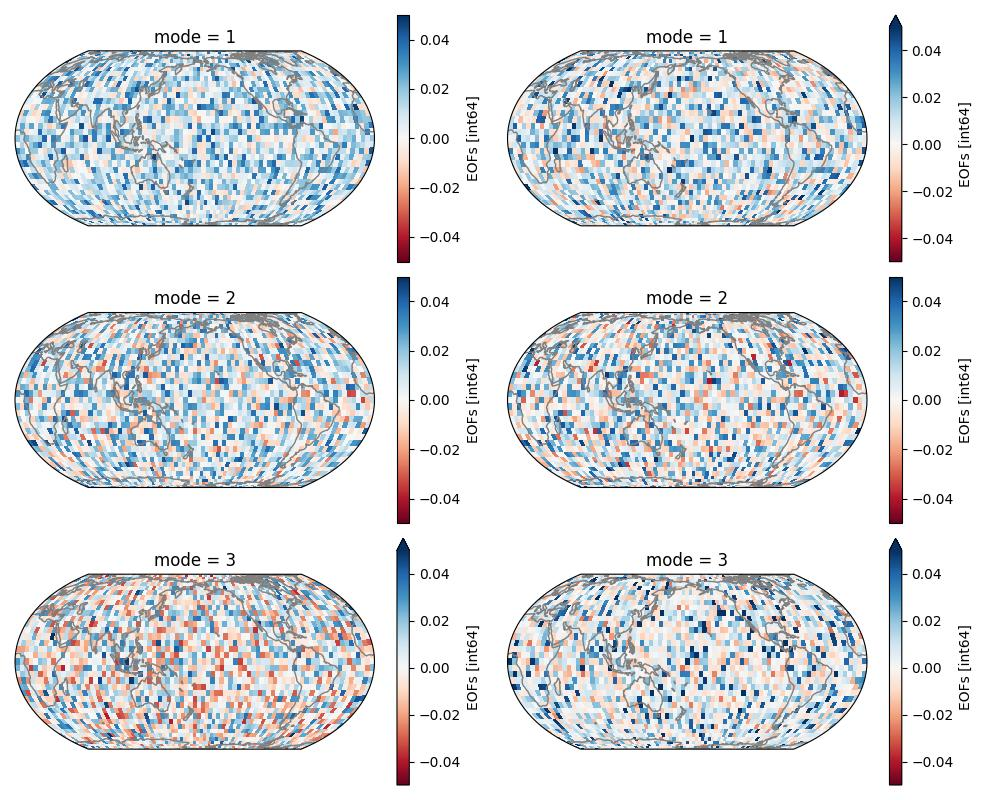
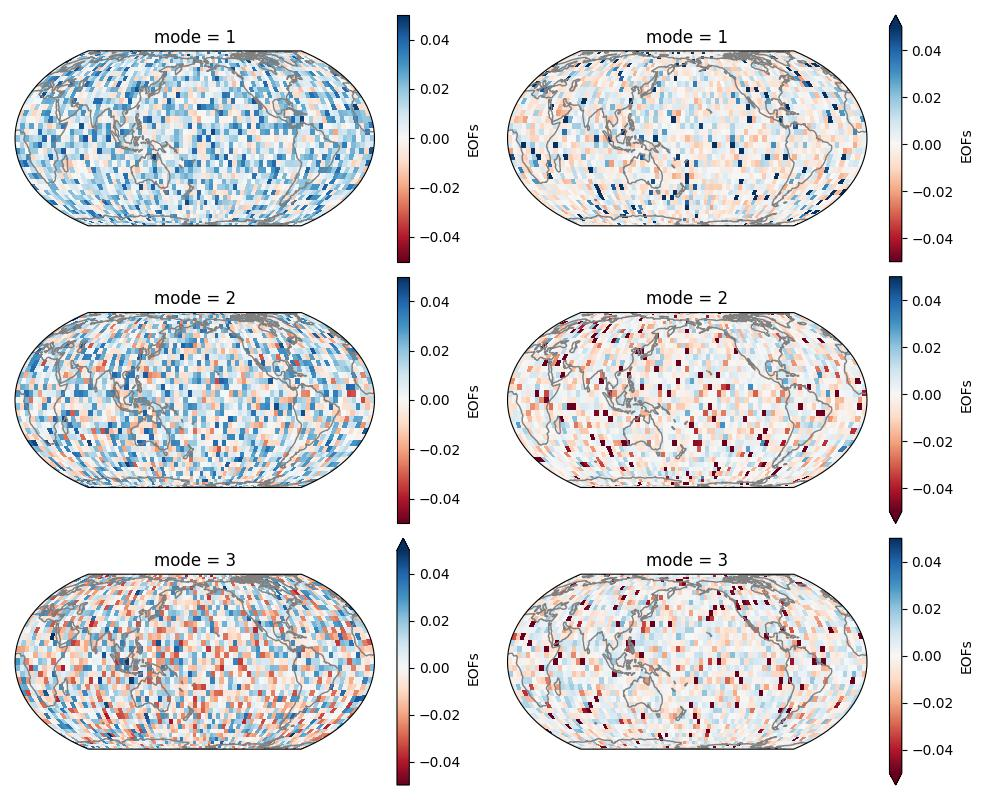
yes

diff --git a/compute_pca_xeofs.py b/compute_pca_xeofs.py
@@ -1,33 +1,28 @@
 import numpy as np
-from xeofs.models import EOF
+from xeofs.xarray import EOF
 import varimax_xeofs as rot
 import xarray as xr
-
-from construct_xarray_eofs import construct_xarray
-
-
-
 # input: a data set (n x 36(=p)), (number of components computed))
 #
 # returns: PC loadings (nx36)
-def compute_pca(data, n_components=6):
+def compute_pca(data, n_components=6, correlation_mode=False):
     
+
     
-    model = EOF(data, n_modes=n_components, norm=True)
+    model = EOF(data, norm=True, dim=['time'])
     model.solve()
     
+   
     eofs = model.eofs()
-
-    eofs_xar = construct_xarray(eofs, 39, 80)
     
+
     explained_variances = model.explained_variance_ratio()
 
     pcs = model.pcs()
+    #print(loadings.shape)
 
     #varimax rotation
     rot_eofs, rot_explained_variances = rot.varimax_xeofs(model)
-
-    rot_eofs_xar = construct_xarray(rot_eofs, 39, 80)
     
     
-    return pcs, eofs_xar, rot_eofs_xar, explained_variances*100, rot_explained_variances*100
+    return pcs, eofs, rot_eofs, explained_variances*100, rot_explained_variances*100

diff --git a/main.py b/main.py
@@ -32,9 +32,9 @@ if __name__== '__main__':
     random_cor_noise = cnd.rand_cor_noise()
 
     data_xr = construct_xarray(random_cor_noise, 39, 80)
-    print(data_xr)
+    #print(data_xr)
 
-    #main(random_cor_noise, ' random')
+    main(data_xr, ' random')
     
     
     

diff --git a/varimax_xeofs.py b/varimax_xeofs.py
@@ -1,4 +1,4 @@
-from xeofs.models import Rotator
+from xeofs.xarray import Rotator
 import numpy as np
 
 
